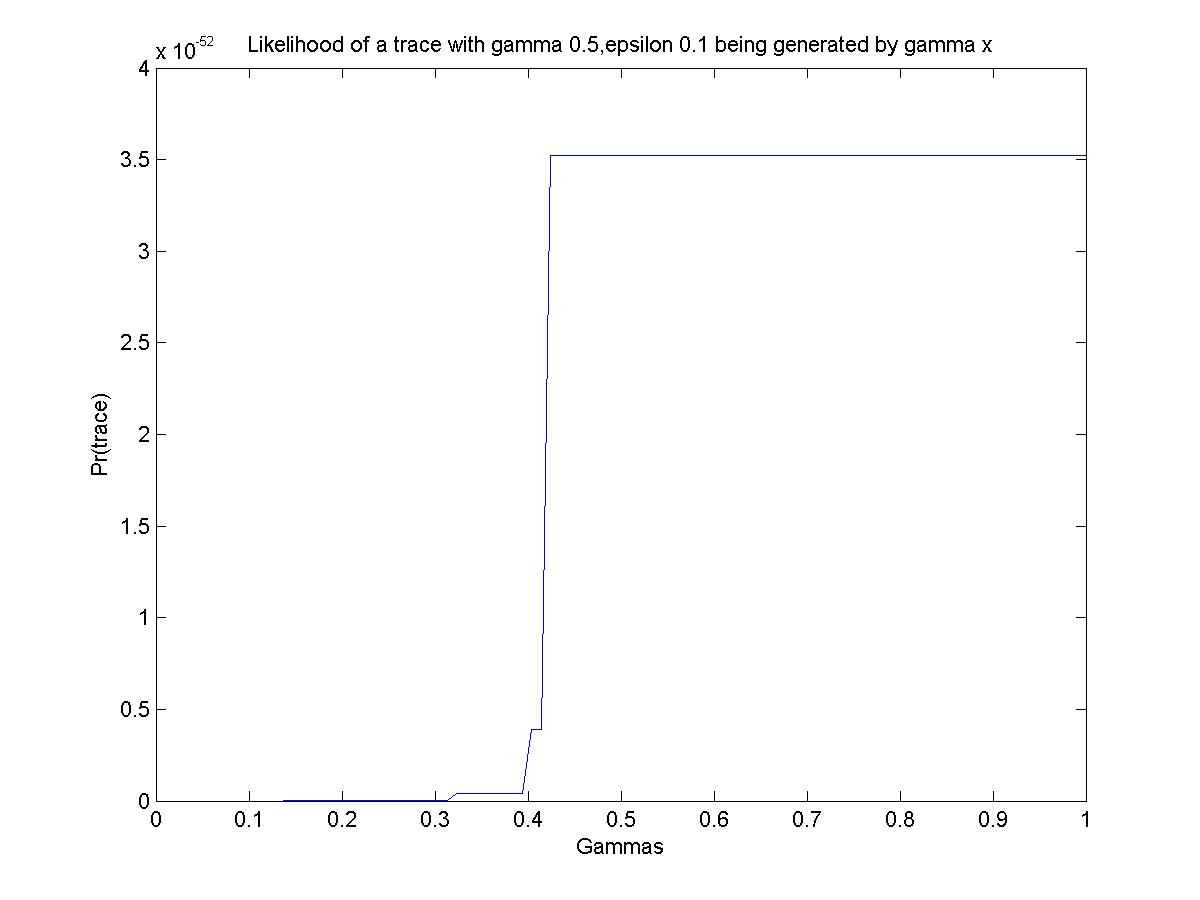
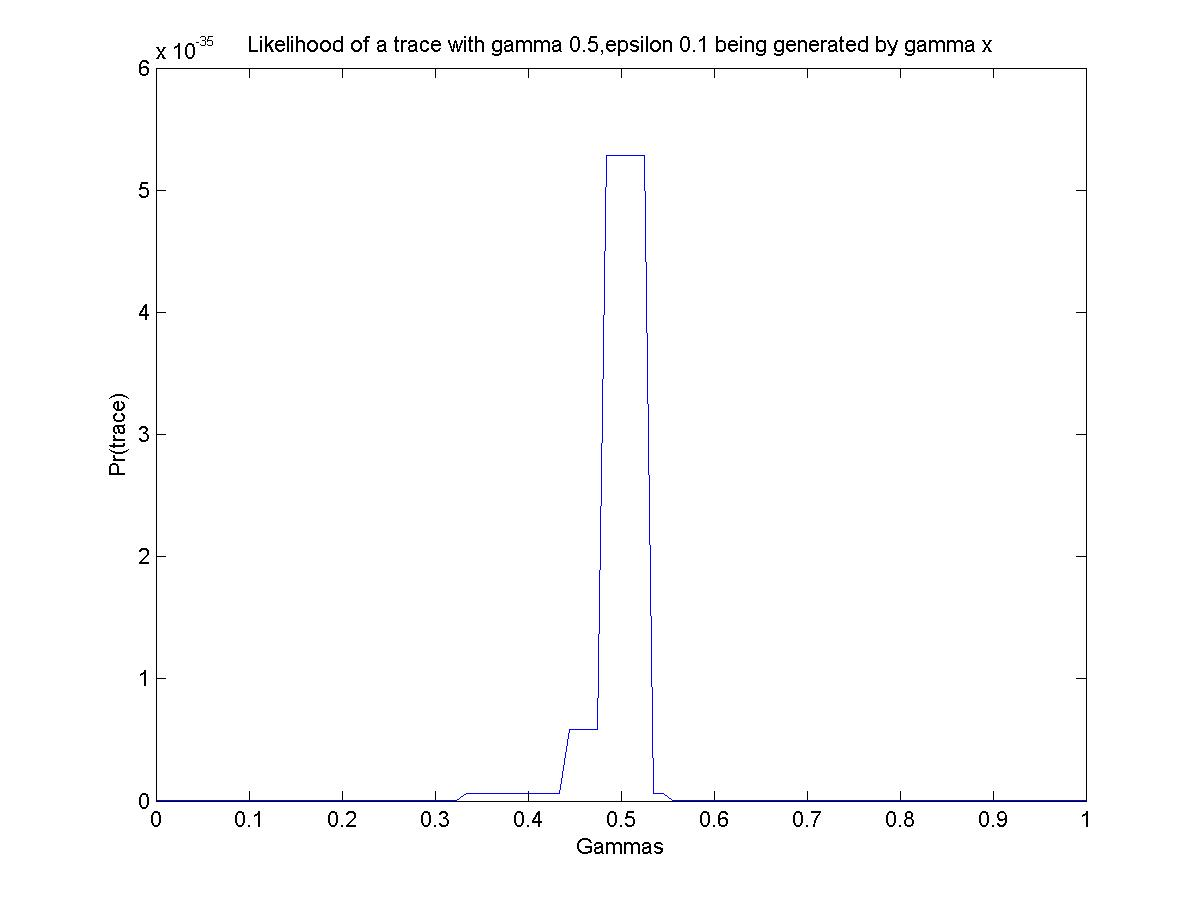
new topdown

diff --git a/+analyse/+inference/compare_methods.m b/+analyse/+inference/compare_methods.m
@@ -1,7 +1,7 @@
 function [ logprob gamma ] = compare_methods( trace,env,game )
 %COMPARE_METHODS Summary of this function goes here
 %   Detailed explanation goes here
-methods={'hmm','window_smooth','sarsa_softmax','sarsa_egreedy','qlearn_egreedy','qlearn_softmax'}%,};
+methods={'window_smooth','sarsa_softmax','sarsa_egreedy','qlearn_egreedy','qlearn_softmax'}%,};
 actions=trace.actions;
 states=trace.states;
 visit=states==1;
@@ -12,10 +12,11 @@ lmethods=length(methods);
 for i=1:lmethods
     switch methods{i}
         case {'window_smooth','window_best','ratio_smooth','ratio_best'}
-            [logprob(i) probests domests]=analyse.inference.topdown_logprob(env,trace,'method',methods{i});
+            [templogprob1 probests domests]=analyse.inference.topdown_logprob(env,trace,'method',methods{i});
 %             xestimate=analyse.inference.get_x(varrewards,trace,domests);
 %             gamma(i)=env.get_gamma(xestimate,0,1);
-            gamma(i)=analyse.inference.topdown_gamma(env,game,varrewards,trace,domests,probests);
+            [gamma(i) templogprob2] =analyse.inference.topdown_gamma(env,game,varrewards,trace,domests,probests);
+                logprob(i)=templogprob1;
         case 'sarsa_egreedy'
             analysis_1 = analyse.inference.maxliksearch_rlalg_global(trace,env,game,'agenttype','sarsa','policytype','egreedy','trials',5);
             [logprob(i) index_1]=max(analysis_1.logprobs);

diff --git a/plotsettings.m b/plotsettings.m
@@ -1,14 +1,14 @@
 fh = figure('Units', 'pixels', ...
     'Position', [100 100 500 375]);
-h1=plot(a,b);
+h1=plot(gammas,exp(score));
 set(fh, 'color', 'white'); % sets the color to white 
-h3=line([0 0.5],[0.5 0.5]);
+% h3=line([0 0.5],[0.5 0.5]);
 set(h1, 'LineStyle', '-', 'LineWidth', 2, 'Color', 'Black');
-set(h3, 'LineStyle', '--', 'LineWidth', 1, 'Color', 'Black');
+% set(h3, 'LineStyle', '--', 'LineWidth', 1, 'Color', 'Black');
 % set(h1, 'Marker', '.', 'MarkerFaceColor', [0.5 0.5 0.5], 'MarkerEdgeColor', [0 0 0], 'MarkerSize', 1.0);
 set(gca, 'Box', 'off' ); % here gca means get current axis 
 % axis( [ 0 650 0.2 1] );
-set(gca, 'TickDir', 'out', 'XTick',0.5,'XTickLabel','m', 'YTick', [0 0.5 1],'FontSize', 13);
+% set(gca, 'TickDir', 'out', 'XTick',0.5,'XTickLabel','m', 'YTick', [0 0.5 1],'FontSize', 13);
 xlabel( 'Reward estimate r', 'FontSize', 16 );
 ylabel( 'Switching probability q(r)', 'FontSize', 16, 'Rotation', 90 ); 
 export_fig images/Methods/logistic.eps -q101

diff --git a/local_analysis.m b/local_analysis.m
@@ -7,7 +7,7 @@ trueepsilon=0.1;
 agent = agents.discrete.get('sarsa',env.numstates,env.numactions,'policytype','egreedy','epsilon',trueepsilon,'gamma',truegamma,'alpha',truealpha);
 [ trace policytrace ] = analyse.sampling.synthetic_traces( agent, sim, 300 );
 gammas=linspace(0,1,100);
-parfor i=1:100
+parfor i=1:1000
     agent = agents.discrete.get('sarsa',env.numstates,env.numactions,'policytype','egreedy','epsilon',trueepsilon,'gamma',gammas(i),'alpha',truealpha);
     score(i) = agent.imitate_run(trace);
 end

diff --git a/generate_synthetic.m b/generate_synthetic.m
@@ -3,7 +3,7 @@ xid = 2;
 methods={'window_smooth','sarsa','qlearn'};
 markers = ['x','+','s','d','o'];
 cc=lines(10);
-gameset=[5]
+gameset=[1]
 for j=1:1
     game = gameset(j);
     [model, sim, env ] = games.get(xid,game); % get the game
